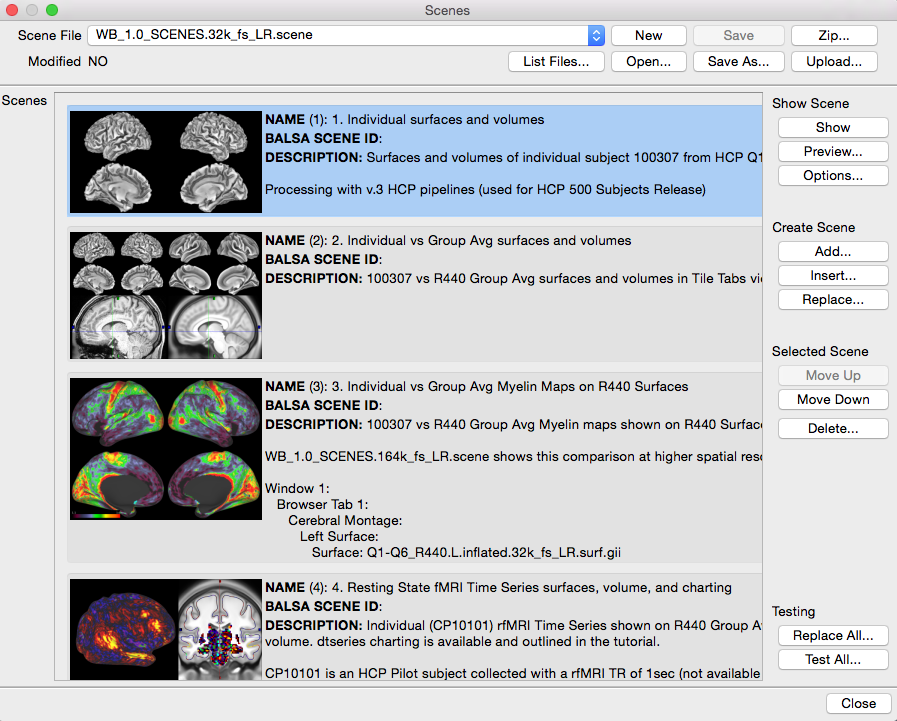
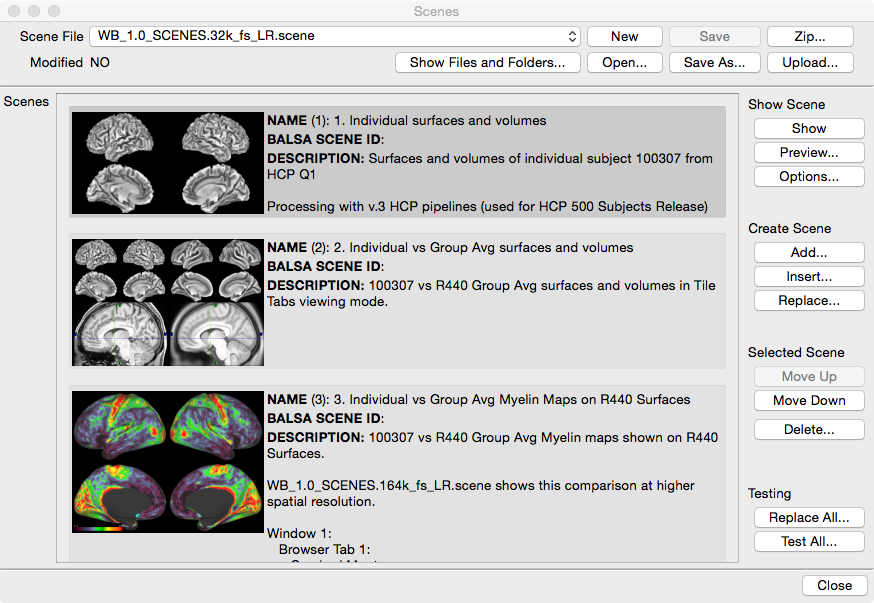
Updated Workbench Help for Scene Dialog and Tool Tips

diff --git a/src/Resources/Help/HelpFiles/Scenes_Window/Scenes_Window.html b/src/Resources/Help/HelpFiles/Scenes_Window/Scenes_Window.html
@@ -23,6 +23,7 @@
             show up in this selector. </font></li>
         <li><font face="Calibri"><b>New</b>&nbsp; C</font><font
             face="Calibri"><font face="Calibri"><font face="Calibri">reates
+
                 a new Scene File.&nbsp; A new Scene File is created with
                 no scenes within it. Add any number of scenes with the <b>A</b><b>dd</b>
                 button.</font></font></font></li>
@@ -34,11 +35,12 @@
         <li><font face="Calibri"><b>Zip</b>&nbsp; Creates a ZIP file
             containing the scene file and all data files it references.<br>
           </font></li>
-        <li><font face="Calibri"><b>List Files</b>&nbsp; Lists all data
-            files from all scenes within the scene file<br>
+        <li><font face="Calibri"><b>Show Files and Folders</b>&nbsp; Displays
+            a hierarchy or list of all data files from all scenes within
+            the scene file<br>
           </font></li>
-        <li><font face="Calibri"><b>Open</b>&nbsp; Displays a file selection
-            dialog for selecting and opening a scene file.<br>
+        <li><font face="Calibri"><b>Open</b>&nbsp; Displays a file
+            selection dialog for selecting and opening a scene file.<br>
           </font></li>
         <li><font face="Calibri"><b>Save As</b>&nbsp;&nbsp; Displays a
             file selection dialog for saving the scene file with a new
@@ -52,29 +54,32 @@
       <p><br>
         Show Scene Group<br>
         <br>
+        <font face="Calibri"> </font></p>
+      <ul>
         <font face="Calibri">
-          <ul>
-            <li><b><font face="Calibri">Show</font></b><font
-                face="Calibri"> loads the active (highlighted in blue)
-                scene.&nbsp; Double clicking on a scene's
-                title/description will also show the scene.</font></li>
-            <li><b><font face="Calibri">Preview...</font></b><font
-                face="Calibri"> opens a separate window with an enlarged
-                display of the highlighted scene's thumbnail along with
-                the name and description.</font></li>
-            <li><b>Options</b>&nbsp; <font face="Calibri"><font
-                  face="Calibri">Use background and foreground colors
-                  from scene when a scene is created, the foreground and
-                  background colors are added to the scene and will be
-                  used when the scene is displayed. Note that the
-                  background and foreground colors are adjusted using
-                  the Preferences Dialog. When a scene is loaded that
-                  contains background and foreground colors, they will
-                  override the user's Preferences colors until a
-                  different scene is loaded, a spec file is loaded, or
-                  this checkbox is unchecked. </font></font></li>
-          </ul>
-        </font></p>
+          <li><b><font face="Calibri">Show</font></b><font
+              face="Calibri"> loads the active (highlighted in blue)
+              scene.&nbsp; Double clicking on a scene's
+              title/description will also show the scene.</font></li>
+          <li><b><font face="Calibri">Preview...</font></b><font
+              face="Calibri"> opens a separate window with an enlarged
+              display of the highlighted scene's thumbnail along with
+              the name and description.</font></li>
+          <li><b>Options</b>&nbsp; <font face="Calibri"><font
+                face="Calibri">Use background and foreground colors from
+                scene when a scene is created, the foreground and
+                background colors are added to the scene and will be
+                used when the scene is displayed. Note that the
+                background and foreground colors are adjusted using the
+                Preferences Dialog. When a scene is loaded that contains
+                background and foreground colors, they will override the
+                user's Preferences colors until a different scene is
+                loaded, a spec file is loaded, or this checkbox is
+                unchecked. </font></font></li>
+        </font>
+      </ul>
+      <font face="Calibri"> </font>
+      <p></p>
     </font><font face="Calibri">
       <p>Create Scene Group<br>
       </p>
@@ -102,17 +107,20 @@
                   </font></font></font></font></font></font></li>
     </ul>
     <font face="Calibri">
-      <p>Selected Scene Group<font face="Calibri">
-          <ul>
-            <li><font face="Calibri"><b>Move Up</b> moves the selected
-                scene up one position in the list of scenes.</font></li>
-            <li><font face="Calibri">Move Down moves the selected scene
-                down one position in the list of scenes.</font></li>
-            <li><font face="Calibri">Delete Deletes the highlighted
-                scene from the scene file.<br>
-              </font></li>
-          </ul>
-        </font><font face="Calibri"> </font></p>
+      <p>Selected Scene Group<font face="Calibri"> </font></p>
+      <ul>
+        <font face="Calibri">
+          <li><font face="Calibri"><b>Move Up</b> moves the selected
+              scene up one position in the list of scenes.</font></li>
+          <li><font face="Calibri">Move Down moves the selected scene
+              down one position in the list of scenes.</font></li>
+          <li><font face="Calibri">Delete Deletes the highlighted scene
+              from the scene file.<br>
+            </font></li>
+        </font>
+      </ul>
+      <font face="Calibri"> </font><font face="Calibri"> </font>
+      <p></p>
     </font><font face="Calibri">
       <p>Testing Group<br>
       </p>
@@ -131,8 +139,8 @@
       </ul>
       <font face="Calibri"> <br>
         <br>
-      </font> <img alt="" src="Scenes_Window.png" width="897"
-        height="721">
+      </font> <img alt="" src="Scenes_Window.png" height="603"
+        width="874">
       <ul>
       </ul>
     </font>

diff --git a/src/Resources/Help/HelpFiles/Workbench_Window/Window_Elements_Hide-Show_Buttons/Window_Elements_Hide-Show_Buttons.html b/src/Resources/Help/HelpFiles/Workbench_Window/Window_Elements_Hide-Show_Buttons/Window_Elements_Hide-Show_Buttons.html
@@ -16,6 +16,8 @@
 
 
 
+
+
             Window</b></u></a>, <a
         href="../../Scenes_Window/Scenes_Window.html"><u><b>Scene</b></u><u><b>s
             Window</b></u></a>, <a href="../../Toolbar/Toolbar.html"><u><b>Toolbar</b></u></a>,
@@ -24,39 +26,45 @@
         href="../../Features_Toolbox/Features_Toolbox.html"><u><b>Features
 
 
+
+
             Toolbox</b></u></a>) are located in the upper right corner
       of the Workbench Window. These buttons turn the display of these
       elements on and off. The buttons are shaded gray (as in the images
       below) to indicate that the element is on, and are unshaded when
       the element is off.</font>
-    <blockquote><img alt="" src="Help_button.png" align="middle"
-        height="26" width="27"><font face="Calibri">&nbsp;&nbsp; <b>Help
-          Window button<br>
+    <blockquote><img src="ToolTips_icon.png" alt="tooltips icon"
+        height="37" width="35"> <b>Tool Tips button</b>&nbsp; Enables
+      tool tips that display information about the brainordinate under
+      the mouse.&nbsp; To show a tooltip, move the mouse over a surface
+      or volume and then 'rest' (do not move) the mouse for a couple of
+      second.&nbsp; A small amount of text will appear that is similar
+      to an identification (mouse click) operation.<br>
+      <br>
+      <img alt="" src="Help_button.png" height="26" align="middle"
+        width="27"><font face="Calibri">&nbsp;&nbsp; <b>Help Window
+          button<br>
           <br>
-        </b></font><img alt="" src="Information_icon.png" align="middle"
-        height="27" width="27"><font face="Calibri">&nbsp;&nbsp;&nbsp; <b>Information
+        </b></font><img alt="" src="Information_icon.png" height="27"
+        align="middle" width="27"><font face="Calibri">&nbsp;&nbsp;&nbsp;
 
-
-
-
-
-
-          Window button</b><br>
+        <b>Information Window button</b><br>
         <br>
-        <img alt="" src="Identify_Brainordinate_Icon.png" align="middle" height="26"
-          width="26">&nbsp;&nbsp;&nbsp; <b>Identify Brainordinate button</b><br>
+        <img alt="" src="Identify_Brainordinate_Icon.png" height="26"
+          align="middle" width="26">&nbsp;&nbsp;&nbsp; <b>Identify
+          Brainordinate button</b><br>
         <br>
-        <img alt="" src="Scenes_icon.png" align="middle" height="26"
+        <img alt="" src="Scenes_icon.png" height="26" align="middle"
           width="26">&nbsp;&nbsp;&nbsp; <b>Scene</b><b>s Window button</b><br>
         <br>
-        <img alt="" src="Toolbar_icon.png" align="middle" height="27"
+        <img alt="" src="Toolbar_icon.png" height="27" align="middle"
           width="28">&nbsp;&nbsp;&nbsp; <b>Toolbar button</b><br>
         <br>
-        <img alt="" src="Overlay_TB_icon.png" align="middle" height="27"
+        <img alt="" src="Overlay_TB_icon.png" height="27" align="middle"
           width="27">&nbsp;&nbsp;&nbsp; <b>Overlay Toolbox button</b><br>
         <br>
-        <img alt="" src="Features_TB_icon.png" align="middle"
-          height="27" width="27">&nbsp;&nbsp;&nbsp; <b>Features Toolbox
-          button</b></font></blockquote>
+        <img alt="" src="Features_TB_icon.png" height="27"
+          align="middle" width="27">&nbsp;&nbsp;&nbsp; <b>Features
+          Toolbox button</b></font></blockquote>
   </body>
 </html>
